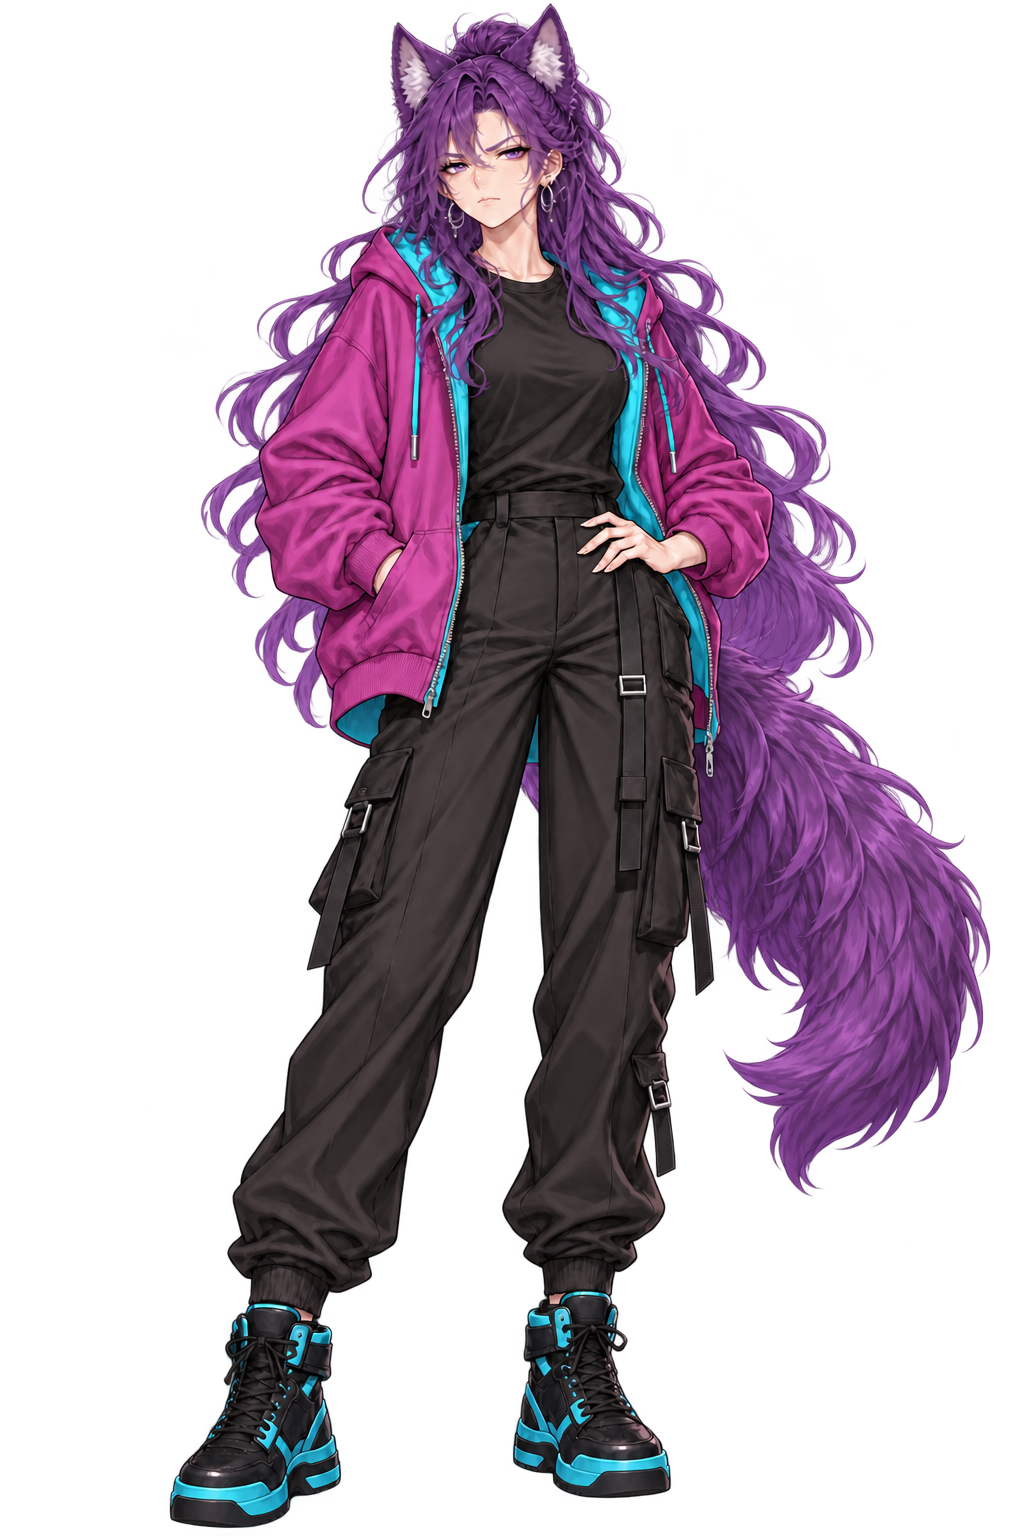
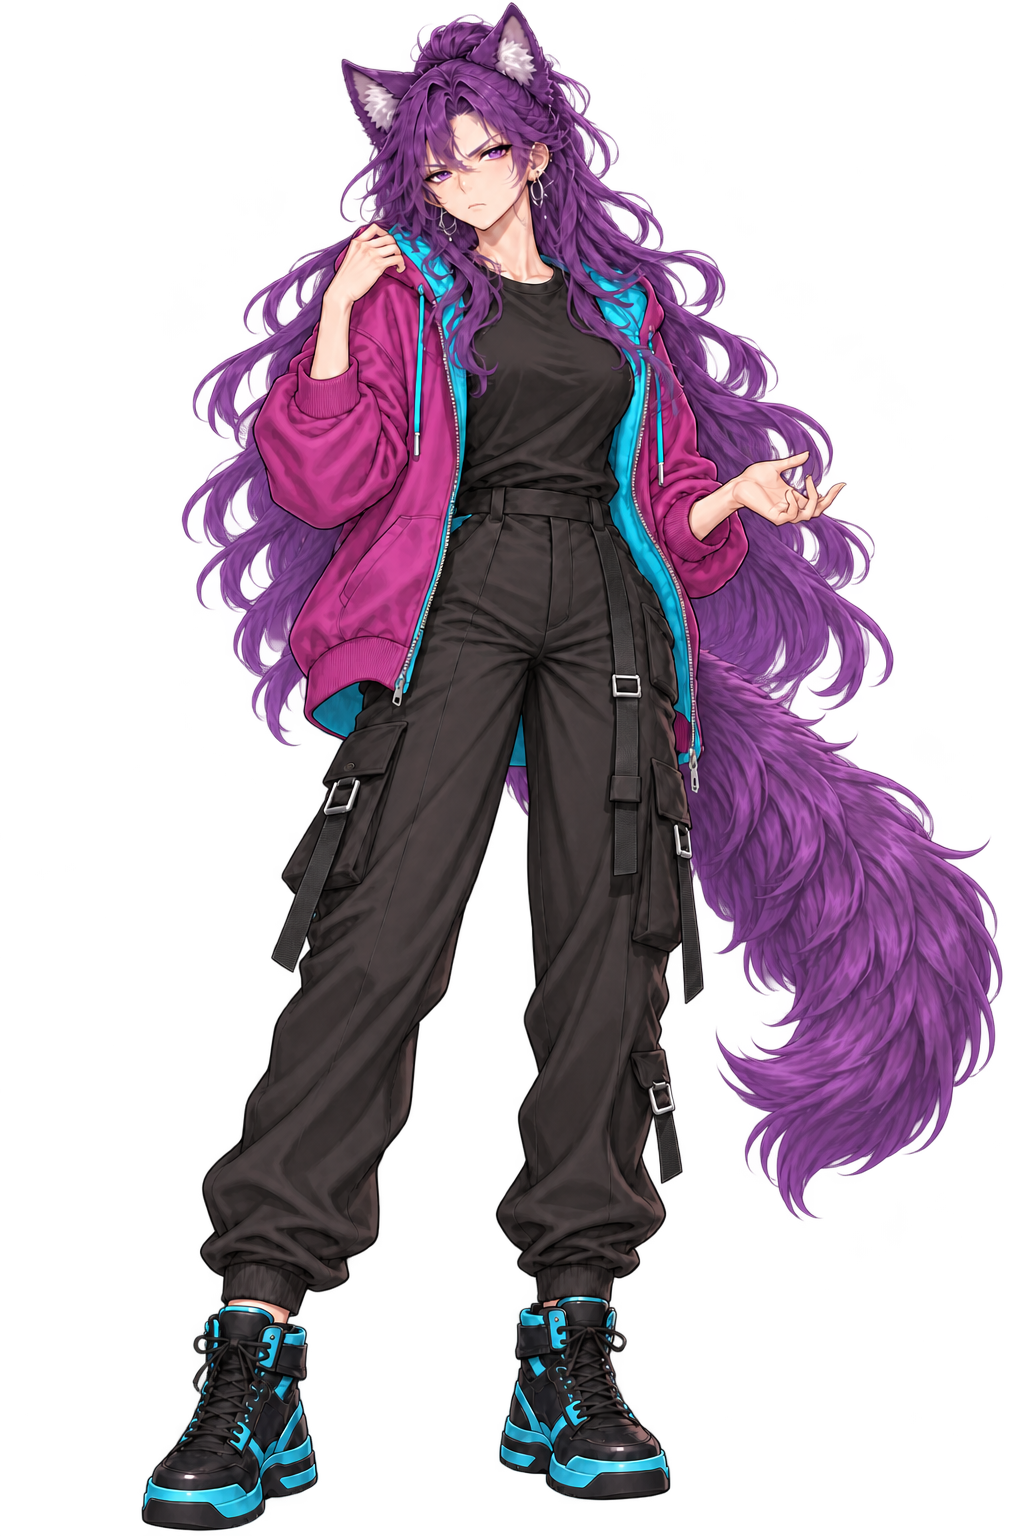
Update Goon Gremlin Vex with approved expression set

Changed region(s): [[0.125, 0.0, 1.0, 1.0]]

diff --git a/Nemo Engine/assets/vex/README.md b/Nemo Engine/assets/vex/README.md
@@ -34,7 +34,7 @@ The selected personality chooses the image set. Her reaction chooses an expressi
 - **Underdog:** uses `underdog/`, with a practical purple low ponytail, faded indigo denim chore jacket with tan elbow patches, burgundy henley, charcoal straight-leg jeans, fingerless gloves, and worn brown boots, purple wolf ears, and a fluffy wolf tail. All nine intended expressions are available as transparent 1024 × 1536 full-body PNGs: neutral, amused, delighted, thoughtful, skeptical, surprised, concerned, sad, and annoyed. Her reactions retain resilience, practical warmth, and earned confidence.
 - **Unhinged:** uses `unhinged/`, with teal dyed hair with a broad coral section and visible violet roots, a messy half-up knot and pencil, an ivory paint-marked artist smock, plum top, charcoal work trousers, worn brown lace-up boots, a plum sketchbook, purple wolf ears, and a full purple wolf tail. The project owner approved this artist design to express unconstrained creativity, experimental ideas, and spontaneous enthusiasm. All nine intended expressions are available as transparent 1024 × 1536 full-body PNGs: neutral, amused, delighted, thoughtful, skeptical, surprised, concerned, sad, and annoyed.
 - **Whimsical:** uses `whimsical/`, with a thick purple side braid, dusty-teal tailcoat, ivory ruffled high-neck blouse, plum waistcoat and skirt, dark tights, teal ankle boots, rose-gold crescent pin, purple wolf ears, and a full purple wolf tail. The project owner approved her open, curious pose with a single ivory origami butterfly hovering above her palm. All nine intended expressions are available as transparent 1024 × 1536 full-body PNGs: neutral, amused, delighted, thoughtful, skeptical, surprised, concerned, sad, and annoyed. Her reactions express adult wonder, playful discovery, and genuine emotional range.
-- **Goon Gremlin:** uses `goon-gremlin/`, with a purple half-up bun with long loose waves, oversized magenta hoodie with cyan lining, black shirt and cargo joggers, and black-and-cyan high-top shoes, purple wolf ears, and a fluffy wolf tail. All nine intended expressions are available as transparent 1024 × 1536 full-body PNGs: neutral, amused, delighted, thoughtful, skeptical, surprised, concerned, sad, and annoyed. Her reactions retain mischief, playful confidence, and lively enthusiasm.
+- **Goon Gremlin:** uses `goon-gremlin/`, with a purple half-up bun and long waves, oversized magenta hoodie with cyan lining, black shirt and cargo joggers, black-and-cyan high-tops, purple wolf ears, and a full purple wolf tail. The project owner approved her livelier head tilt and open conversational pose, with one hand holding the hoodie near her shoulder and the other making a small open-palm gesture. All nine intended expressions are available as transparent 1024 × 1536 full-body PNGs: neutral, amused, delighted, thoughtful, skeptical, surprised, concerned, sad, and annoyed. Her reactions retain impish confidence, direct teasing charm, and genuine emotional range.
 - **Gooner:** uses `gooner/`, with long purple waves, a deep-magenta longline blazer, opaque black high-neck blouse, black wide-leg trousers, a narrow silver belt, geometric lapel pin, and dark-plum heeled ankle boots, purple wolf ears, and a fluffy wolf tail. All nine intended expressions are available as transparent 1024 × 1536 full-body PNGs: neutral, amused, delighted, thoughtful, skeptical, surprised, concerned, sad, and annoyed. Her reactions retain focused confidence, knowing warmth, and an expressive emotional range.
 - `masters/` reserves space for resolved Master Vex identities. Do not generate every possible combination. Register a stable Master ID and its own image set when artwork is available.
 
@@ -48,7 +48,7 @@ The selected personality chooses the image set. Her reaction chooses an expressi
 4. Supply `neutral` first. Set the set's status to `partial` while adding expressions, or `ready` when its intended set is complete. Update `assetVersion` whenever artwork or mappings change.
 5. Record artist/source, usage permission, and any required attribution in `CREDITS.md`.
 
-All 30 current image sets use nine expressions: neutral, amused, delighted, thoughtful, skeptical, surprised, concerned, sad, and annoyed. `intendedExpressions` records the complete target set; other optional slots may remain null even when a set is ready. Generation prompts and image hashes for the original 0.27.0 catalog are preserved in [`generation/v0.27.0.json`](generation/v0.27.0.json). The approved Unhinged artist revision and its nine expressions are recorded in [`generation/v0.28.0.json`](generation/v0.28.0.json). The approved Whimsical revision is recorded in [`generation/v0.29.0.json`](generation/v0.29.0.json).
+All 30 current image sets use nine expressions: neutral, amused, delighted, thoughtful, skeptical, surprised, concerned, sad, and annoyed. `intendedExpressions` records the complete target set; other optional slots may remain null even when a set is ready. Generation prompts and image hashes for the original 0.27.0 catalog are preserved in [`generation/v0.27.0.json`](generation/v0.27.0.json). The approved Unhinged artist revision and its nine expressions are recorded in [`generation/v0.28.0.json`](generation/v0.28.0.json). The approved Whimsical revision is recorded in [`generation/v0.29.0.json`](generation/v0.29.0.json). The approved Goon Gremlin revision is recorded in [`generation/v0.30.0.json`](generation/v0.30.0.json).
 
 Other common expression slots: happy, excited, playful, smug, angry, embarrassed, weary. Not every personality needs every slot. Additional expressions can be registered explicitly. The manifest includes aliases for pensive, grinning, pouting, hurt, and faint-smile; expand these into distinct portraits later if useful.
 

diff --git a/Nemo Engine/assets/vex/CREDITS.md b/Nemo Engine/assets/vex/CREDITS.md
@@ -235,9 +235,10 @@
 
 - Files: `goon-gremlin/neutral.png`, `goon-gremlin/amused.png`, `goon-gremlin/delighted.png`, `goon-gremlin/thoughtful.png`, `goon-gremlin/skeptical.png`, `goon-gremlin/surprised.png`, `goon-gremlin/concerned.png`, `goon-gremlin/sad.png`, `goon-gremlin/annoyed.png`.
 - Character and creative direction: Noah / NemoVonNirgend.
-- Source: generated with ChatGPT image generation using the supplied Vex identity reference, then edited from this set’s neutral base to create the remaining expressions. The set preserves a purple half-up bun with long loose waves, oversized magenta hoodie with cyan lining, black shirt and cargo joggers, and black-and-cyan high-top shoes, wolf ears, and a fluffy tail across all nine expressions.
+- Approved direction: energetic adult mischief, bold teasing charm, and direct engagement with the viewer. The project owner approved the revised sample before expression generation.
+- Source: generated with ChatGPT image generation, then edited from the approved neutral to create eight matching expressions. The set preserves her purple half-up bun and long waves, magenta/cyan hoodie, black shirt and cargo joggers, black/cyan high-tops, purple ears and tail, hoodie-edge hand, open-palm gesture, and lively standing pose.
 - Publication: uploaded as part of the project owner’s requested Vex asset-set workflow. No separate third-party artwork license is asserted here.
-- Format: full-body transparent PNG, 1024 × 1536. This is Goon Gremlin’s own image set; scene emotion does not switch her personality or costume.
+- Format: full-body transparent PNG, 1024 × 1536. Scene emotion does not switch her personality, costume, hair, or pose. Exact prompts and hashes are recorded in `generation/v0.30.0.json`.
 
 ## Gooner Vex
 
